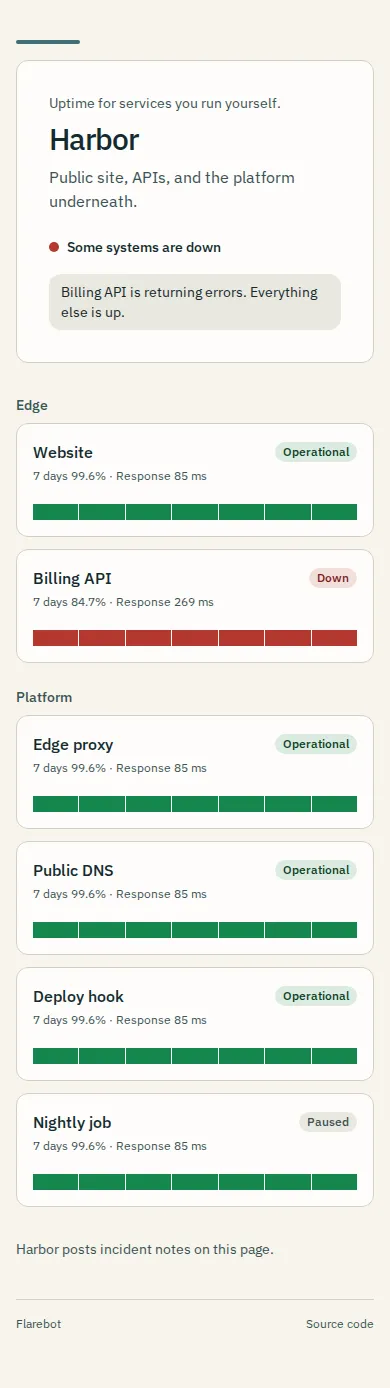
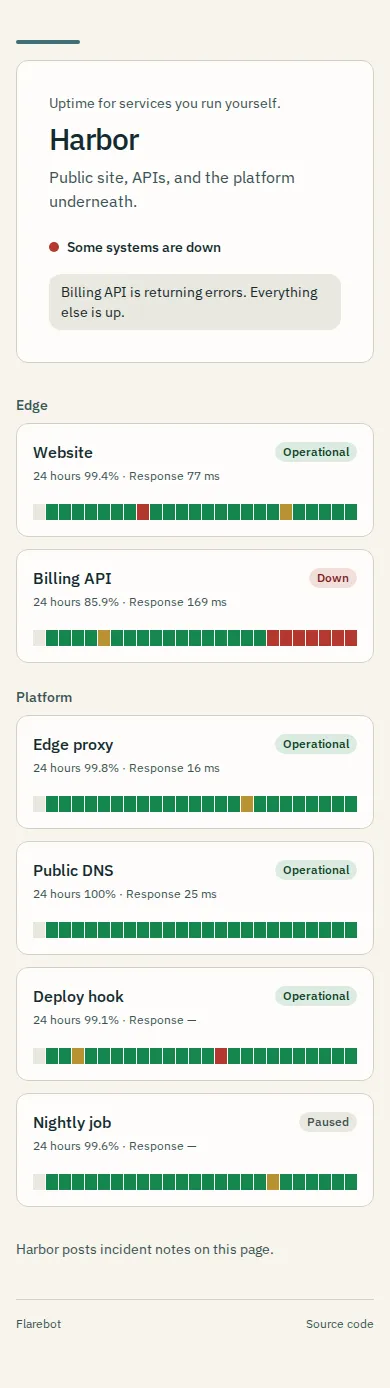
docs: vary the history in the README screenshots
Each demo monitor keeps its own uptime and response time, with a short outage and a partial hour in the bars. The public page uses the 24 hour range. A check with no round trip shows a dash instead of 0 ms.

diff --git a/scripts/screenshots.spec.ts b/scripts/screenshots.spec.ts
@@ -67,6 +67,55 @@ async function monitorStatus(
   return ((await response.json()) as { status: string }).status;
 }
 
+type Bucket = { ok: number; fail: number; ms: number };
+
+// Fixed shapes, not one shared ratio. A few hours are partial or a short
+// outage so the bars are not a solid stripe. Heartbeats keep ms at 0.
+function hourBucket(name: string, ago: number): Bucket {
+  if (name === "Website") {
+    if (ago === 16) return { ok: 9, fail: 7, ms: 860 };
+    if (ago === 5) return { ok: 104, fail: 8, ms: 230 };
+    return { ok: 120, fail: ago === 11 ? 1 : 0, ms: 44 + (ago % 8) * 6 };
+  }
+  if (name === "Billing API") {
+    if (ago < 4) return { ok: 2, fail: 22, ms: 480 + ago * 40 };
+    if (ago < 7) return { ok: 14, fail: 9, ms: 280 };
+    if (ago === 19) return { ok: 36, fail: 4, ms: 160 };
+    return { ok: 40, fail: 0, ms: 88 + (ago % 5) * 7 };
+  }
+  if (name === "Edge proxy") {
+    if (ago === 8) return { ok: 76, fail: 4, ms: 36 };
+    return { ok: 80, fail: 0, ms: 8 + (ago % 6) * 3 };
+  }
+  if (name === "Public DNS") {
+    return { ok: 50, fail: 0, ms: 17 + (ago % 5) * 4 };
+  }
+  if (name === "Deploy hook") {
+    if (ago === 10) return { ok: 4, fail: 3, ms: 0 };
+    if (ago === 21) return { ok: 20, fail: 2, ms: 0 };
+    return { ok: 24, fail: 0, ms: 0 };
+  }
+  if (ago === 6) return { ok: 27, fail: 3, ms: 0 };
+  return { ok: 30, fail: 0, ms: 0 };
+}
+
+function dayBucket(name: string, ago: number): Bucket {
+  if (name === "Billing API") {
+    return { ok: 520, fail: ago === 4 ? 80 : 18, ms: 140 };
+  }
+  if (name === "Website") return { ok: 900, fail: ago === 5 ? 6 : 1, ms: 58 };
+  if (name === "Edge proxy")
+    return { ok: 700, fail: ago === 6 ? 4 : 0, ms: 14 };
+  if (name === "Public DNS") return { ok: 640, fail: 0, ms: 24 };
+  return { ok: 280, fail: ago === 9 ? 2 : 0, ms: 0 };
+}
+
+function sampleJson(ms: number, fail: number): string {
+  if (ms <= 0) return "[]";
+  const slow = fail > 0 ? ms + 420 : ms + 11;
+  return `[${Math.max(1, ms - 9)},${ms},${ms + 14},${slow}]`;
+}
+
 function seedHistory(monitors: DemoMonitor[]): void {
   const now = Date.now();
   const hour = Math.floor(now / hourMs) * hourMs;
@@ -79,23 +128,19 @@ function seedHistory(monitors: DemoMonitor[]): void {
       );
     }
     for (let ago = 0; ago < 24; ago += 1) {
-      const start = hour - ago * hourMs;
-      const failing = monitor.kind === "down" && ago < 8;
-      const ok = failing ? 2 : 18;
-      const fail = failing ? 12 : ago === 5 && monitor.kind === "up" ? 1 : 0;
-      const samples = failing ? "[480,520,610]" : "[72,84,91,68]";
-      const sum = (ok + fail) * (failing ? 520 : 80);
+      const bucket = hourBucket(monitor.name, ago);
+      const total = bucket.ok + bucket.fail;
+      const sum = total * bucket.ms;
+      const max = bucket.ms <= 0 ? 0 : bucket.ms + (bucket.fail > 0 ? 700 : 28);
       lines.push(
-        `INSERT INTO uptime_hourly (monitor_id, hour_start, ok_count, fail_count, latency_sum, latency_max, samples_json) VALUES ('${monitor.id}', ${start}, ${ok}, ${fail}, ${sum}, ${failing ? 900 : 140}, '${samples}') ON CONFLICT(monitor_id, hour_start) DO UPDATE SET ok_count = excluded.ok_count, fail_count = excluded.fail_count, latency_sum = excluded.latency_sum, latency_max = excluded.latency_max, samples_json = excluded.samples_json;`,
+        `INSERT INTO uptime_hourly (monitor_id, hour_start, ok_count, fail_count, latency_sum, latency_max, samples_json) VALUES ('${monitor.id}', ${hour - ago * hourMs}, ${bucket.ok}, ${bucket.fail}, ${sum}, ${max}, '${sampleJson(bucket.ms, bucket.fail)}') ON CONFLICT(monitor_id, hour_start) DO UPDATE SET ok_count = excluded.ok_count, fail_count = excluded.fail_count, latency_sum = excluded.latency_sum, latency_max = excluded.latency_max, samples_json = excluded.samples_json;`,
       );
     }
-    for (let ago = 1; ago <= 6; ago += 1) {
-      const start = today - ago * dayMs;
-      const ok = monitor.kind === "down" ? 240 : 500;
-      const fail = monitor.kind === "down" ? 30 : 2;
-      const sum = (ok + fail) * (monitor.kind === "down" ? 260 : 85);
+    for (let ago = 3; ago <= 14; ago += 1) {
+      const bucket = dayBucket(monitor.name, ago);
+      const sum = (bucket.ok + bucket.fail) * bucket.ms;
       lines.push(
-        `INSERT INTO uptime_daily (monitor_id, day_start, ok_count, fail_count, latency_sum, latency_max) VALUES ('${monitor.id}', ${start}, ${ok}, ${fail}, ${sum}, ${monitor.kind === "down" ? 700 : 160}) ON CONFLICT(monitor_id, day_start) DO UPDATE SET ok_count = excluded.ok_count, fail_count = excluded.fail_count, latency_sum = excluded.latency_sum, latency_max = excluded.latency_max;`,
+        `INSERT INTO uptime_daily (monitor_id, day_start, ok_count, fail_count, latency_sum, latency_max) VALUES ('${monitor.id}', ${today - ago * dayMs}, ${bucket.ok}, ${bucket.fail}, ${sum}, ${bucket.ms + 40}) ON CONFLICT(monitor_id, day_start) DO UPDATE SET ok_count = excluded.ok_count, fail_count = excluded.fail_count, latency_sum = excluded.latency_sum, latency_max = excluded.latency_max;`,
       );
     }
   }
@@ -259,7 +304,7 @@ test("captures the four README screenshots from local demo data", async ({
       banner: "Billing API is returning errors. Everything else is up.",
       footer: "Harbor posts incident notes on this page.",
       accent: "#3d6f78",
-      displayRange: "7d",
+      displayRange: "24h",
       items: [
         {
           monitorId: website.id,
@@ -329,7 +374,46 @@ test("captures the four README screenshots from local demo data", async ({
   const desk = await desktop.newPage();
   await desk.goto("/");
   await expect(desk.getByRole("heading", { name: "Harbor" })).toBeVisible();
-  await expect(desk.getByText("7 days").first()).toBeVisible();
+  await expect(desk.getByText("24 hours").first()).toBeVisible();
+  const status = (await (
+    await request.get("/api/public/status/harbor")
+  ).json()) as {
+    displayRange: string;
+    bucket: string;
+    groups: {
+      items: {
+        name: string;
+        uptime: number | null;
+        responseMs: number | null;
+        bars: { uptime: number | null }[];
+      }[];
+    }[];
+  };
+  expect(status.displayRange).toBe("24h");
+  expect(status.bucket).toBe("hour");
+  const items = status.groups.flatMap((group) => group.items);
+  const byName = new Map(items.map((item) => [item.name, item]));
+  const websiteBars = byName.get("Website")?.bars ?? [];
+  expect(
+    websiteBars.some((bar) => bar.uptime != null && bar.uptime < 90),
+  ).toBeTruthy();
+  expect(
+    websiteBars.some(
+      (bar) => bar.uptime != null && bar.uptime >= 90 && bar.uptime < 99,
+    ),
+  ).toBeTruthy();
+  const uptimes = items.map((item) => item.uptime);
+  expect(new Set(uptimes).size).toBeGreaterThanOrEqual(5);
+  expect(byName.get("Website")?.responseMs).not.toBe(
+    byName.get("Edge proxy")?.responseMs,
+  );
+  expect(byName.get("Public DNS")?.responseMs).not.toBe(
+    byName.get("Website")?.responseMs,
+  );
+  expect(byName.get("Deploy hook")?.responseMs).toBe(0);
+  const hookCard = desk.getByRole("article").filter({ hasText: "Deploy hook" });
+  await expect(hookCard.getByText("0 ms")).toHaveCount(0);
+  await expect(hookCard.getByText("—")).toBeVisible();
   await expect(
     desk.getByRole("heading", { name: "Edge", exact: true }),
   ).toBeVisible();
@@ -360,6 +444,7 @@ test("captures the four README screenshots from local demo data", async ({
   await expect(desk.getByText("6 monitors")).toBeVisible();
   await expect(desk.getByText("Website")).toBeVisible();
   await expect(desk.getByText("Nightly job")).toBeVisible();
+  await expect(desk.getByText("0 ms")).toHaveCount(0);
   await settle(desk);
   await saveShot(desk, "dashboard.webp");
 

diff --git a/src/pages/public.tsx b/src/pages/public.tsx
@@ -7,7 +7,7 @@ import { useQuery } from "@tanstack/react-query";
 import { useParams } from "@tanstack/react-router";
 import { Badge } from "@/ui/badge";
 import { api } from "../lib/api";
-import { statusTone } from "./fields";
+import { responseText, statusTone } from "./fields";
 
 type PublicPage = {
   title: string;
@@ -127,10 +127,7 @@ export function PublicStatusPage() {
                       ? t("uptime_empty")
                       : t("uptime_percent", { value: item.uptime })}
                     {" · "}
-                    {t("response_label")}{" "}
-                    {item.responseMs === null
-                      ? t("uptime_empty")
-                      : t("response_ms", { value: item.responseMs })}
+                    {t("response_label")} {responseText(item.responseMs)}
                   </p>
                   <div
                     className="mt-3 flex h-6 min-w-0 items-end gap-px"
@@ -146,12 +143,7 @@ export function PublicStatusPage() {
                                 uptime: t("uptime_percent", {
                                   value: bar.uptime,
                                 }),
-                                response:
-                                  bar.responseMs === null
-                                    ? t("uptime_empty")
-                                    : t("response_ms", {
-                                        value: bar.responseMs,
-                                      }),
+                                response: responseText(bar.responseMs),
                               })
                         }
                         className={`min-w-0 flex-1 ${

diff --git a/src/pages/monitors.tsx b/src/pages/monitors.tsx
@@ -38,7 +38,7 @@ import { useSubmitGuard } from "../lib/use-submit-guard";
 import { Stagger, StaggerItem } from "../motion/page";
 import { ConfirmDialog } from "../ui/confirm-dialog";
 import { ContentSkeleton } from "../ui/skeleton";
-import { statusTone } from "./fields";
+import { responseText, statusTone } from "./fields";
 import { MonitorConfig } from "./monitor-config";
 import { monitorStatusLabel, monitorTypeLabel } from "./monitor-labels";
 
@@ -165,9 +165,7 @@ export function DashboardPage() {
                         : t("uptime_percent", { value: row.uptime24 })}
                     </span>
                     <span className="font-mono text-muted-foreground">
-                      {row.lastResponseMs == null
-                        ? t("uptime_empty")
-                        : t("response_ms", { value: row.lastResponseMs })}
+                      {responseText(row.lastResponseMs)}
                     </span>
                     <Badge tone={statusTone(row.status)}>
                       {monitorStatusLabel(row.status)}

diff --git a/src/pages/fields.tsx b/src/pages/fields.tsx
@@ -1,5 +1,6 @@
 // SPDX-License-Identifier: MIT
 
+import { t } from "@shared/copy";
 import type { ReactNode } from "react";
 
 export const controlClass =
@@ -34,6 +35,13 @@ export function Field({
       ) : null}
     </label>
   );
+}
+
+// A heartbeat has no round trip, and a connect that finishes in the same
+// millisecond is stored as 0. Both read as an empty measurement.
+export function responseText(ms: number | null): string {
+  if (ms == null || ms <= 0) return t("uptime_empty");
+  return t("response_ms", { value: ms });
 }
 
 export function statusTone(

diff --git a/README.md b/README.md
@@ -30,7 +30,7 @@ Flarebot checks HTTP, TCP, DNS, certificate expiry, and heartbeat endpoints, con
 - [MIT license](LICENSE)
 
 <p align="center">
-  <img src="docs/images/status.webp" alt="Public Harbor status page on a desktop, with Edge and Platform sections over seven days" width="820" />
+  <img src="docs/images/status.webp" alt="Public Harbor status page on a desktop, with Edge and Platform sections over the last 24 hours" width="820" />
 </p>
 
 <p align="center">
